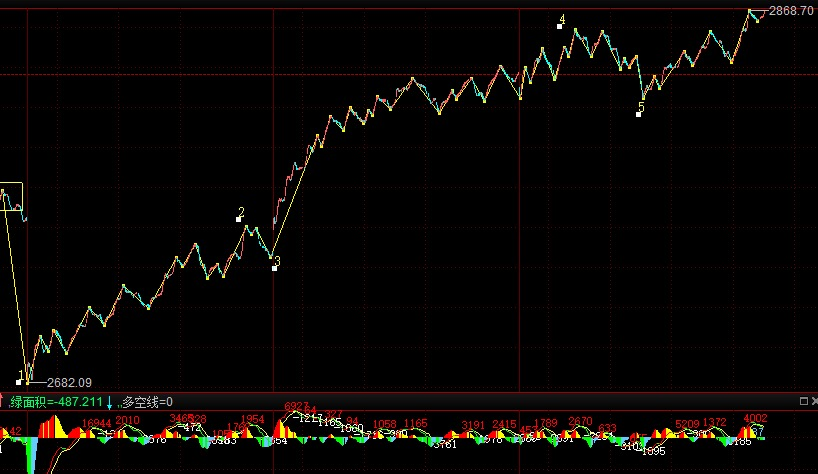
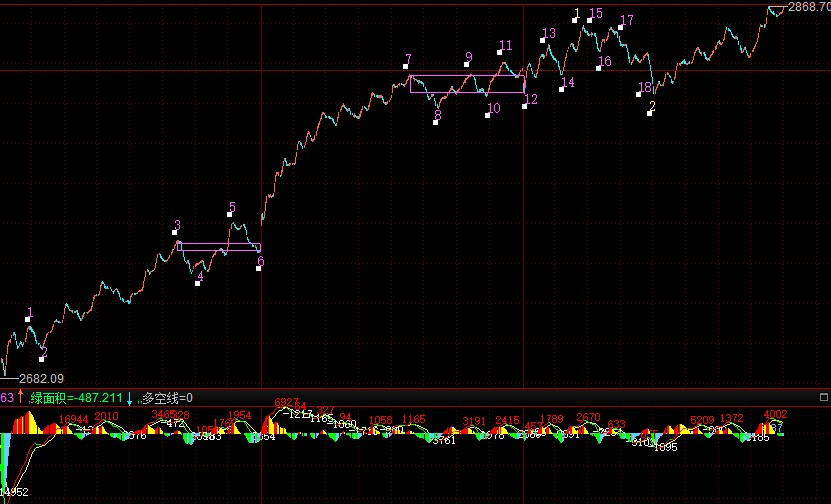
Site updated: 2016-02-17 17:43:32

Changed region(s): [[0.0, 0.0, 1.0, 1.0], [0.0, 0.384, 0.0306, 0.4726]]

diff --git a/2016/02/17/大盘分析/2016/20160217大盘分析/index.html b/2016/02/17/大盘分析/2016/20160217大盘分析/index.html
@@ -16,7 +16,7 @@
 <meta property="og:image" content="http://zj831007.github.io/2016/02/17/大盘分析/2016/20160217大盘分析/m30.png">
 <meta property="og:image" content="http://zj831007.github.io/2016/02/17/大盘分析/2016/20160217大盘分析/m5.png">
 <meta property="og:image" content="http://zj831007.github.io/2016/02/17/大盘分析/2016/20160217大盘分析/m1.png">
-<meta property="og:updated_time" content="2016-02-17T07:51:51.000Z">
+<meta property="og:updated_time" content="2016-02-17T09:38:55.000Z">
 <meta name="twitter:card" content="summary">
 <meta name="twitter:title" content="20160217大盘分析">
 <meta name="twitter:description" content="&amp;#x4E0A;&amp;#x8BC1;30F9&amp;#x70B9;&amp;#x5411;&amp;#x4E0A;&amp;#x7EBF;&amp;#x6BB5;&amp;#x7EE7;&amp;#x7EED;&amp;#x5411;&amp;#x4E0A;&amp;#x5EF6;&amp;#x4F38;&amp;#x4E2D;">
@@ -244,7 +244,7 @@
       
         <h3 id="u4E0A_u8BC130F"><a href="#u4E0A_u8BC130F" class="headerlink" title="&#x4E0A;&#x8BC1;30F"></a>&#x4E0A;&#x8BC1;30F</h3><p>9&#x70B9;&#x5411;&#x4E0A;&#x7EBF;&#x6BB5;&#x7EE7;&#x7EED;&#x5411;&#x4E0A;&#x5EF6;&#x4F38;&#x4E2D;<br><img src="/2016/02/17/&#x5927;&#x76D8;&#x5206;&#x6790;/2016/20160217&#x5927;&#x76D8;&#x5206;&#x6790;/m30.png" alt=""><br><a id="more"></a></p>
 <h3 id="u4E0A_u8BC15F"><a href="#u4E0A_u8BC15F" class="headerlink" title="&#x4E0A;&#x8BC1;5F"></a>&#x4E0A;&#x8BC1;5F</h3><p>24&#x70B9;&#x5411;&#x4E0A;&#xFF0C;&#x5728;&#x4ECA;&#x65E5;10&#xFF1A;30&#x5DF2;&#x7ECF;&#x662F;&#x76D8;&#x6574;&#x80CC;&#x9A70;&#xFF0C;macd&#x7EA2;&#x67F1;&#x4E0D;&#x80FD;&#x521B;&#x65B0;&#x9AD8;&#xFF0C;&#x4F46;&#x7EBF;&#x521B;&#x65B0;&#x9AD8;&#xFF0C;&#x56E0;&#x6B64;10&#xFF1A;30&#x540E;&#x5F00;&#x59CB;&#x5411;&#x4E0B;&#x8C03;&#x6574;&#xFF0C;&#x5411;&#x4E0B;&#x7B14;&#x7834;&#x574F;&#x524D;&#x9762;&#x7684;&#x7279;&#x5F81;&#x5E8F;&#x5217;&#x7F3A;&#x53E3;&#xFF0C;&#x4F46;&#x540E;&#x9762;&#x7684;&#x5E8F;&#x5217;&#x672A;&#x80FD;&#x521B;&#x65B0;&#x4F4E;&#xFF0C;&#x56E0;&#x6B64;&#x88AB;&#x524D;&#x9762;&#x7279;&#x5F81;&#x5E8F;&#x5217;&#x5305;&#x542B;&#xFF0C;&#x56E0;&#x6B64;&#xFF0C;&#x91CD;&#x65B0;&#x5F62;&#x6210;&#x7279;&#x5F81;&#x5E8F;&#x5217;&#x7F3A;&#x53E3;&#xFF0C;&#x56E0;&#x6B64;&#xFF0C;&#x5411;&#x4E0A;&#x8D70;&#x52BF;&#x4ECD;&#x7136;&#x662F;&#x5F3A;&#x52BF;&#x4E0A;&#x653B;&#xFF0C;&#x4E0A;&#x653B;&#x4F4D;&#x7F6E;&#x7EE7;&#x7EED;&#x770B;&#x540E;&#x9762;&#x7684;&#x9AD8;&#x5EA6;&#x53CA;&#x8C03;&#x6574;&#x5E45;&#x5EA6;&#x3002;<br><img src="/2016/02/17/&#x5927;&#x76D8;&#x5206;&#x6790;/2016/20160217&#x5927;&#x76D8;&#x5206;&#x6790;/m5.png" alt=""></p>
-<h3 id="u4E0A_u8BC11F"><a href="#u4E0A_u8BC11F" class="headerlink" title="&#x4E0A;&#x8BC1;1F"></a>&#x4E0A;&#x8BC1;1F</h3><p>5&#x5206;&#x79CD;&#x7684;&#x7B14;&#x7279;&#x5F81;&#x5E8F;&#x5217;&#x5728;1&#x5206;&#x949F;&#x5373;&#x4E3A;2-3&#xFF0C;4-5 &#x4E24;&#x4E2A;&#x7EBF;&#x6BB5;&#x7684;&#x7279;&#x5F81;&#x5E8F;&#x5217;&#x578B;&#xFF0C;&#x76EE;&#x524D;&#x7F3A;&#x53E3;&#x5F88;&#x660E;&#x663E;&#xFF0C;&#x6700;&#x540E;&#x4E00;&#x7EBF;&#x6BB5;&#x662F;&#x4E00;&#x4E2A;&#x672A;&#x5B8C;&#x6210;&#x7684;&#x7C7B;&#x7EA7;&#x522B;&#x76D8;&#x6574;&#x8D70;&#x52BF;&#xFF0C;&#x7C7B;&#x7EA7;&#x522B;&#x5B8C;&#x7F8E;&#x540E;&#x5C06;&#x4F1A;&#x4F5C;1&#x5206;&#x949F;&#x7684;&#x76D8;&#x6574;&#xFF0C;1&#x5206;&#x949F;&#x8D70;&#x52BF;&#x5B8C;&#x7F8E;&#x540E;&#x518D;&#x770B;5&#x5206;&#x949F;&#xFF0C;&#x4E00;&#x76F4;&#x9012;&#x5F52;&#x5230;&#x4F60;&#x64CD;&#x4F5C;&#x7EA7;&#x522B;&#x7684;&#x4E70;&#x5356;&#x70B9;&#x64CD;&#x4F5C;&#x3002;<br><img src="/2016/02/17/&#x5927;&#x76D8;&#x5206;&#x6790;/2016/20160217&#x5927;&#x76D8;&#x5206;&#x6790;/m1.png" alt=""></p>
+<h3 id="u4E0A_u8BC11F"><a href="#u4E0A_u8BC11F" class="headerlink" title="&#x4E0A;&#x8BC1;1F"></a>&#x4E0A;&#x8BC1;1F</h3><p>0&#x5230;1&#x4E3A;&#x4E00;&#x4E2A;&#x5F88;&#x5C0F;&#x7684;&#x4E0D;&#x591F;&#x7B14;&#x8D70;&#x52BF;&#x7EA7;&#x522B;&#x7684;&#x8D8B;&#x52BF;&#x3002;&#x53EF;&#x4EE5;&#x770B;&#x505A;&#x4E00;&#x7B14;&#x8D70;&#x52BF;&#xFF0C;1&#x5230;2&#x5411;&#x4E0B;&#x672A;&#x80FD;&#x521B;&#x65B0;&#x4F4E;&#xFF0C;&#x540C;&#x65F6;&#x5411;&#x4E0A;&#x7A81;&#x7834;1&#x70B9;&#xFF0C;&#x5411;&#x4E0A;&#x7684;&#x7EBF;&#x6BB5;&#x6210;&#x7ACB;&#x3002;&#x6CE8;&#x610F;&#xFF0C;&#x8FD9;&#x4E2A;&#x5411;&#x4E0A;&#x7684;&#x6700;&#x7B80;&#x5355;&#x7684;&#x7EBF;&#x6BB5;&#x51FA;&#x73B0;&#xFF0C;&#x601D;&#x60F3;&#x4E0A;&#x6709;&#x4E24;&#x4E2A;&#x786E;&#x8BA4;&#xFF0C;&#x7B2C;&#x4E00;&#xFF0C;0&#x70B9;&#x524D;&#x5411;&#x4E0B;&#x7684;&#x7EBF;&#x6BB5;&#x8D70;&#x52BF;&#x5B8C;&#x6210;&#x3002;&#x65E0;&#x8BBA;&#x662F;&#x5426;&#x80CC;&#x9A70;&#xFF0C;&#x662F;&#x5426;&#x642D;&#x914D;&#x4EC0;&#x4E48;&#x7ED3;&#x6784;&#x3002;&#x90FD;&#x4E0D;&#x7528;&#x518D;&#x5206;&#x6790;&#x8003;&#x8651;&#x4E86;&#x3002;&#x7B2C;&#x4E8C;&#x3002;0&#x70B9;&#x5F00;&#x59CB;&#x7684;&#x5411;&#x4E0A;&#x7EBF;&#x6BB5;&#x5C06;&#x5EF6;&#x7EED;&#xFF0C;&#x8FD9;&#x4E2A;&#x5EF6;&#x7EED;&#x4EC0;&#x4E48;&#x65F6;&#x5019;&#x7ED3;&#x675F;&#x90A3;&#xFF1F;&#x51FA;&#x73B0;&#x53CD;&#x5411;&#x7EBF;&#x6BB5;&#x7684;&#x65F6;&#x5019;&#x3002;<br>&#x6709;&#x540C;&#x5B66;&#x53EF;&#x80FD;&#x4F1A;&#x95EE;&#xFF1F;&#x65E2;&#x7136;&#x662F;&#x8FD9;&#x6837;&#xFF0C;&#x7B49;&#x4E00;&#x4E2A;&#x53CD;&#x5411;&#x7684;&#x7EBF;&#x6BB5;&#x51FA;&#x73B0;&#x6765;&#x786E;&#x8BA4;&#x8FD9;&#x4E2A;&#x7EBF;&#x6BB5;&#x5B8C;&#x6210;&#xFF0C;&#x5212;&#x5206;&#x8FD8;&#x6709;&#x4EC0;&#x4E48;&#x610F;&#x4E49;&#xFF1F;&#x5212;&#x5206;&#x7684;&#x610F;&#x4E49;&#x5F53;&#x7136;&#x6709;&#x4E86;&#xFF0C;&#x662F;&#x4E3A;&#x4E86;&#x5F53;&#x4E0B;&#xFF0C;&#x4E3A;&#x4E86;&#x5E72;&#x3002;&#x4E24;&#x8005;&#x662F;&#x6709;&#x8005;&#x5B8C;&#x5168;&#x4E0D;&#x540C;&#x7684;&#x610F;&#x4E49;&#x548C;&#x7528;&#x5904;&#x7684;&#x3002;<br>&#x7EE7;&#x7EED;&#x5212;&#x5206;&#x7684;&#x5206;&#x6790;&#x3002;&#x6CE8;&#x610F;&#x770B;&#x3002;2&#x70B9;&#x540E;&#x7684;&#x7EA2;&#x7EFF;&#x53CD;&#x5411;&#x7B14;&#x90FD;&#x662F;&#x6709;&#x7279;&#x5F81;&#x5E8F;&#x5217;&#x7F3A;&#x53E3;&#x7684;&#xFF0C;&#x4E2D;&#x67A2;&#x4E0A;&#x79FB;&#xFF0C;&#x8D70;&#x52BF;&#x672A;&#x5B8C;&#x6210;&#x3002;&#x4E00;&#x76F4;&#x5230;5&#x70B9;&#x65F6;&#xFF0C;&#x624D;&#x6709;&#x8DCC;&#x7834;3&#x70B9;&#x7684;&#x60C5;&#x51B5;&#x3002;&#x5728;&#x5B9E;&#x9645;&#x5206;&#x6790;&#x65F6;&#x3002;&#x8FD9;&#x65F6;&#x5019;&#x624D;&#x662F;&#x8003;&#x8651;&#x5E72;&#x7684;&#x65F6;&#x5019;&#xFF0C;&#x5C31;&#x662F;&#x8BF4;6&#x70B9;&#x5F00;&#x59CB;&#x5411;&#x4E0A;&#x4E0D;&#x80FD;&#x521B;&#x65B0;&#x9AD8;&#x6216;&#x521B;&#x65B0;&#x9AD8;&#x80CC;&#x9A70;&#xFF0C;&#x8FD9;&#x4E2A;&#x7EA7;&#x522B;&#x7684;&#x64CD;&#x4F5C;&#x5C31;&#x5FC5;&#x987B;&#x5E72;&#x4E86;&#x3002; &#x663E;&#x7136;6&#x70B9;&#x540E;&#x662F;&#x4E2A;&#x521B;&#x65B0;&#x9AD8;&#x6709;&#x529B;&#x5EA6;&#x7684;&#x60C5;&#x51B5;&#xFF0C;&#x56DE;&#x8FC7;&#x5934;&#x6765;&#x770B;&#x524D;&#x9762;&#x7684;&#x8D70;&#x52BF;&#xFF0C;0&#x5230;5&#x662F;&#x4E00;&#x4E2A;4&#x5355;&#x7B14;&#x4E2D;&#x67A2;&#x7684;&#x8D8B;&#x52BF;&#x8D70;&#x52BF;&#x80CC;&#x9A70;&#xFF0C;6&#x70B9;&#x5F00;&#x59CB;&#x5411;&#x4E0A;&#x521B;&#x65B0;&#x9AD8;&#x540E;&#xFF0C;&#x8D70;&#x52BF;&#x81EA;&#x7136;&#x5347;&#x7EA7;&#x4E3A;&#x6269;&#x5C55;&#x60C5;&#x51B5;&#x7684;&#x4E09;&#x7B14;&#x4E2D;&#x67A2;&#x7EA7;&#x522B;&#x3002;<br>&#x8D70;&#x52BF;&#x4E00;&#x76F4;&#x5EF6;&#x7EED;&#x5230;7 10&#x4E3A;&#x7B2C;&#x4E8C;&#x4E2A;&#x4E09;&#x7B14;&#x4E2D;&#x67A2;&#x3002;11&#x5230;12&#x4E3A;&#x4E2D;&#x67A2;&#x9707;&#x8361;&#xFF0C;14&#x4E3A;7 10&#x4E2D;&#x67A2;&#x7684;&#x786E;&#x8BA4;&#xFF0C;&#x8D70;&#x52BF;&#x4E00;&#x76F4;&#x5EF6;&#x7EED;&#x5230;15&#x70B9;&#x3002;<br>&#x6CE8;&#x610F;&#x770B;&#xFF0C;0&#x5230;15.&#x6700;&#x5173;&#x952E;&#x7684;&#x662F;&#x4EC0;&#x4E48;&#xFF0C;&#x5C31;&#x662F;&#x6CA1;&#x6709;&#x53CD;&#x5411;&#x7EBF;&#x6BB5;&#x51FA;&#x73B0;&#x3002;&#x6362;&#x53E5;&#x8BDD;&#xFF0C;&#x5C31;&#x662F;&#x540E;&#x4E00;&#x7B14;&#x8D70;&#x52BF;&#x521B;&#x65B0;&#x9AD8;&#x3002;&#x521B;&#x65B0;&#x9AD8;&#x5C31;&#x4E0D;&#x4F1A;&#x6709;&#x53CD;&#x5411;&#x7EBF;&#x6BB5;&#x51FA;&#x73B0;&#x3002;&#x4F60;&#x89C2;&#x5BDF;&#x4E00;&#x4E0B;&#xFF0C;&#x662F;&#x5426;&#x662F;&#x8FD9;&#x79CD;&#x60C5;&#x51B5;&#xFF0C;&#x4E00;&#x7B14;&#x5411;&#x4E0B;&#x540E;&#xFF0C;&#x540E;&#x4E00;&#x7B14;&#x90FD;&#x662F;&#x521B;&#x65B0;&#x9AD8;&#x7684;&#x3002;<br>&#x4E00;&#x76F4;&#x5230;17&#x70B9;&#xFF0C;&#x624D;&#x7B2C;&#x4E00;&#x6B21;&#x51FA;&#x73B0;&#xFF0C;&#x4E00;&#x7B14;&#x4E0B;&#x540E;&#xFF0C;&#x540E;&#x9762;&#x4E00;&#x7B14;&#x4E0D;&#x80FD;&#x521B;&#x65B0;&#x9AD8;&#x4E86;&#x3002;17&#x70B9;&#x5411;&#x4E0B;&#x521B;&#x4E86;16&#x70B9;&#x7684;&#x65B0;&#x4F4E;&#xFF0C;&#x53CD;&#x5411;&#x7EBF;&#x6BB5;&#x6210;&#x7ACB;&#xFF0C;&#x5F53;&#x4E0B;&#x786E;&#x8BA4;&#xFF0C;0&#x70B9;&#x5F00;&#x59CB;&#x7684;&#x5411;&#x4E0A;&#x8D70;&#x52BF;&#xFF0C;&#x5230;15&#x70B9;&#x7ED3;&#x675F;&#x3002;<br>15&#x70B9;&#x540E;&#x90A3;&#xFF1F;&#x5C31;&#x662F;&#x6784;&#x7B51;1&#x5206;&#x949F;&#x7EA7;&#x522B;&#x4E2D;&#x67A2;&#x7684;&#x8FC7;&#x7A0B;&#x4E86;&#x3002;<br><img src="/2016/02/17/&#x5927;&#x76D8;&#x5206;&#x6790;/2016/20160217&#x5927;&#x76D8;&#x5206;&#x6790;/m1.png" alt=""></p>
 
       
     </div>
